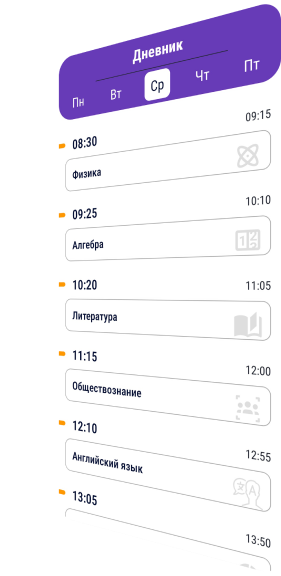
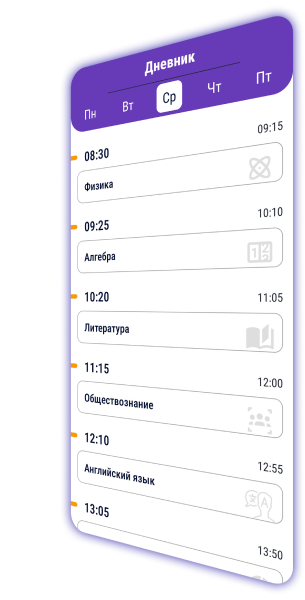
commit

diff --git a/css/src/desktop-styles.css b/css/src/desktop-styles.css
@@ -131,25 +131,34 @@
     height: 15.1667rem;
     right: -0.4rem;
     top: -0.1rem;
-    opacity: 1;
+    opacity: 0;
     -webkit-filter: blur(1.5px);
             filter: blur(1.5px);
+  }
+  div.head-screen .head-screen__phones .head-screen__phones_blur .head-screen__phones_blur-visible-1 {
+    opacity: 1;
   }
   div.head-screen .head-screen__phones .head-screen__phones_blur .head-screen__phone-blur-2 {
     height: 15.3334rem;
     right: -0.8rem;
     top: -0.2rem;
-    opacity: 0.5;
+    opacity: 0;
     -webkit-filter: blur(3px);
             filter: blur(3px);
+  }
+  div.head-screen .head-screen__phones .head-screen__phones_blur .head-screen__phones_blur-visible-2 {
+    opacity: 0.5;
   }
   div.head-screen .head-screen__phones .head-screen__phones_blur .head-screen__phone-blur-3 {
     height: 15.5001rem;
     right: -1.2rem;
     top: -0.3rem;
-    opacity: 0.33333;
+    opacity: 0;
     -webkit-filter: blur(4.5px);
             filter: blur(4.5px);
+  }
+  div.head-screen .head-screen__phones .head-screen__phones_blur .head-screen__phones_blur-visible-3 {
+    opacity: 0.33333;
   }
   main .head-screen::after {
     width: 11rem;
@@ -382,33 +391,11 @@
   :root {
     font-size: 38px;
   }
-  div.why-we {
-    margin-top: 18vh;
-  }
-  div.make-and-settings div.settings .settings__img {
-    bottom: 15rem;
-  }
-  div.make-and-settings div.settings .settings__description {
-    bottom: 3rem;
-  }
-}
-
-@media (min-width: 1800px) {
-  div.make-and-settings .make::after,
-  div.make-and-settings .settings::after {
-    left: 49vw;
-  }
-  div.make-and-settings .settings::before {
-    left: calc(49vw - 3.58px);
-  }
 }
 
 @media (min-width: 1919px) {
   :root {
     font-size: 44px;
-  }
-  div.why-we {
-    margin-top: 18vh;
   }
   div.make-and-settings div.settings .settings__img {
     bottom: 17rem;

diff --git a/css/src/animations.css b/css/src/animations.css
@@ -74,35 +74,26 @@
           transform: rotate(-45deg);
 }
 
-.btn-down,
 .btn-up {
   -webkit-transition: .2s ease-in-out;
   transition: .2s ease-in-out;
 }
 
-.btn-down .btn-down__arrow,
-.btn-down .btn-up__arrow,
-.btn-up .btn-down__arrow,
 .btn-up .btn-up__arrow {
   -webkit-transition: .2s ease-in-out;
   transition: .2s ease-in-out;
 }
 
-.btn-down:hover,
 .btn-up:hover {
   height: 3rem;
   -webkit-transform: translateY(0.25rem);
           transform: translateY(0.25rem);
 }
 
-.btn-down:hover .btn-down__arrow,
-.btn-down:hover .btn-up__arrow,
-.btn-up:hover .btn-down__arrow,
 .btn-up:hover .btn-up__arrow {
   height: 2rem;
 }
 
-.btn-down:active,
 .btn-up:active {
   border-width: 3px;
 }
@@ -139,5 +130,36 @@
 .communication__btn_send-message:active {
   -webkit-transform: scale(0.95);
           transform: scale(0.95);
+}
+
+@media (min-width: 993px) {
+  @-webkit-keyframes head-screen-scale {
+    0% {
+      height: 15.5001rem;
+      right: -1.2rem;
+      top: -0.3rem;
+    }
+    100% {
+      top: 0;
+      right: 0;
+      height: 15rem;
+    }
+  }
+  @keyframes head-screen-scale {
+    0% {
+      height: 15.5001rem;
+      right: -1.2rem;
+      top: -0.3rem;
+    }
+    100% {
+      top: 0;
+      right: 0;
+      height: 15rem;
+    }
+  }
+  .head-screen__phones > .desktop {
+    -webkit-animation: head-screen-scale 1s linear;
+            animation: head-screen-scale 1s linear;
+  }
 }
 /*# sourceMappingURL=animations.css.map */

diff --git a/css/src/desktop-styles.scss b/css/src/desktop-styles.scss
@@ -120,8 +120,12 @@
                         height: 15rem + .1667rem * $i; 
                         right: -.4rem * $i;
                         top: -.1rem * $i;
-                        opacity: 1 / $i;
+                        // transition: opacity  3s 3s * $i;
+                        opacity: 0;
                         filter: blur(1.5px * $i);
+                    }
+                    .head-screen__phones_blur-visible-#{$i} {
+                        opacity: 1 / $i;
                     }
                 }
             }
@@ -365,32 +369,12 @@
     :root {
         font-size: 38px;
     }
-    div.why-we {
-        margin-top: 18vh;
-    }
-    div.make-and-settings div.settings .settings__img {
-        bottom: 15rem;
-    }
-    div.make-and-settings div.settings .settings__description {
-        bottom: 3rem;
-    }
     
 }
-@media (min-width: 1800px) {
-    div.make-and-settings .make::after,
-    div.make-and-settings .settings::after {
-        left: 49vw;
-    }
-    div.make-and-settings .settings::before {
-        left: calc(49vw - 3.58px);
-    }
-}
+
 @media (min-width: 1919px) {
     :root {
         font-size: 44px;
-    }
-    div.why-we {
-        margin-top: 18vh;
     }
     div.make-and-settings div.settings .settings__img {
         bottom: 17rem;

diff --git a/js/script.js b/js/script.js
@@ -1,10 +1,10 @@
 'use strict';
-const MENU = document.querySelector('.hamburger');
-const HEADER = document.querySelector('header');
+const menu = document.querySelector('.hamburger');
+const header = document.querySelector('header');
 
 function headerToggle() {
-    HEADER.classList.toggle('header-visible');
-    MENU.classList.toggle('menu-clicked');
+    header.classList.toggle('header-visible');
+    menu.classList.toggle('menu-clicked');
 }
 
 function scrollToElem(target) {
@@ -14,9 +14,9 @@ function scrollToElem(target) {
     elemTo.scrollIntoView({ behavior: 'smooth', block: 'end' });
 }
 
-MENU.addEventListener('click', headerToggle);
+menu.addEventListener('click', headerToggle);
 
-HEADER.addEventListener('click', function (event) {
+header.addEventListener('click', function (event) {
     const target = event.target;
 
     if (target.classList['1'] === 'nav__link') {
@@ -92,3 +92,9 @@ document.querySelectorAll('.feature__btn_more').forEach(elem => {
     target.classList.toggle('feature__btn_clicked');
 });
 });
+
+for (let i = 3; i >= 1; i--) {
+    setTimeout(() => 
+        document.querySelector(`.head-screen__phone-blur-${i}`).classList.add(`head-screen__phones_blur-visible-${i}`)
+    , 667 * Math.pow(i, -1));
+}

diff --git a/index.html b/index.html
@@ -41,11 +41,11 @@
             <button id="nav__link-2" class="btn-link nav__link" data-link="make-and-settings">
                 Быстрое создание
             </button>
-            <button id="nav__link-3" class="btn-link nav__link" data-link="interface">
-                Интерфейс <strong><span class="MyDiary">MyDiary</span></strong>
+            <button id="nav__link-3" class="btn-link nav__link" data-link="possibilities">
+                Возможности <strong><span class="MyDiary">MyDiary</span></strong>
             </button>
-            <button id="nav__link-4" class="btn-link nav__link nav__link-small" data-link="possibilities">
-                Возможности
+            <button id="nav__link-4" class="btn-link nav__link nav__link-small" data-link="faq">
+                FAQ
             </button>
             <button id="nav__link-5" class="btn-link nav__link nav__link-small" data-link="communication">
                 Связь с нами

diff --git a/css/src/animations.scss b/css/src/animations.scss
@@ -84,3 +84,23 @@
 .communication__btn_send-message:active {
     transform: scale(0.95);
 }
+
+
+
+@media  (min-width: 993px) {
+    @keyframes head-screen-scale {
+        0% {
+            height: 15.5001rem;
+            right: -1.2rem;
+            top: -0.3rem;
+        }
+        100% {
+            top: 0;
+            right: 0;
+            height: 15rem;
+        }
+    }
+    .head-screen__phones > .desktop {
+        animation: head-screen-scale 1s linear;
+    }
+}
